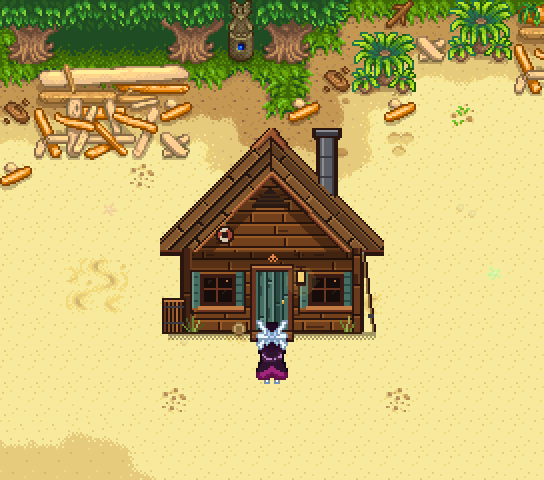
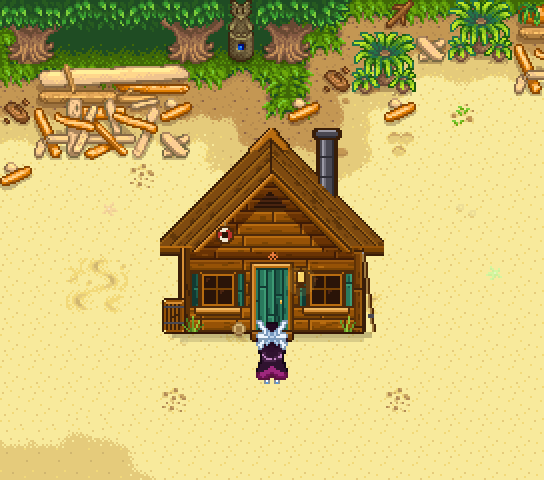
Beach cabin redrawn in Stardew pixel style (ramps/board structure learned from vanilla tiles via px read); planks/dplanks Stardew board structure, rrect/frrect; room frame tiles

Changed region(s): [[0.2812, 0.25, 0.7188, 0.7188], [0.5938, 0.2812, 0.625, 0.3125]]

diff --git a/AGENTS.md b/AGENTS.md
@@ -74,8 +74,10 @@ Other: `px read sheet.png --frame 16,32,0` (PNG → PXT), `px layers f.pxt [-o d
 `px preview f.png --frames 16,32,0,1,2,3`, `px slice`/`px pack`, `px ops-help` (px line rect frect circle fill replace
 outline flip rot shift mirror hue sat light quantize dither paste frame copy move copyframe remap snap).
 
-Vanilla look (what made the beach cabin stop looking artificial):
-- one material family per object (warm weathered wood), max one muted accent; no pure white, no bright primaries.
+Vanilla look (learned by reading vanilla tiles with `px read --rect`; do that first for any new material):
+- one material family per object, max one accent; no pure white/black. Wood = saturated orange-browns (#935000 range).
+- interiors: brighter, low-contrast floors (#d98f3b range, gaps only one step darker); orange room frame around the black void.
+- shadows are flat semi-transparent bands (#21000040..60), not dithered gradients.
 - hand-picked 5-step ramps per material; dark outline = darkest wood tone (#2a160e), never black.
 - boards: lit top edge + dark gap + butt joints + short knot dashes (`planks`/`dplanks`); no random single-pixel noise.
 - roofs: boards run down each slope (`dplanks` 135/45 under a `mask poly`), thick fascia, deep solid shadow under eaves.
